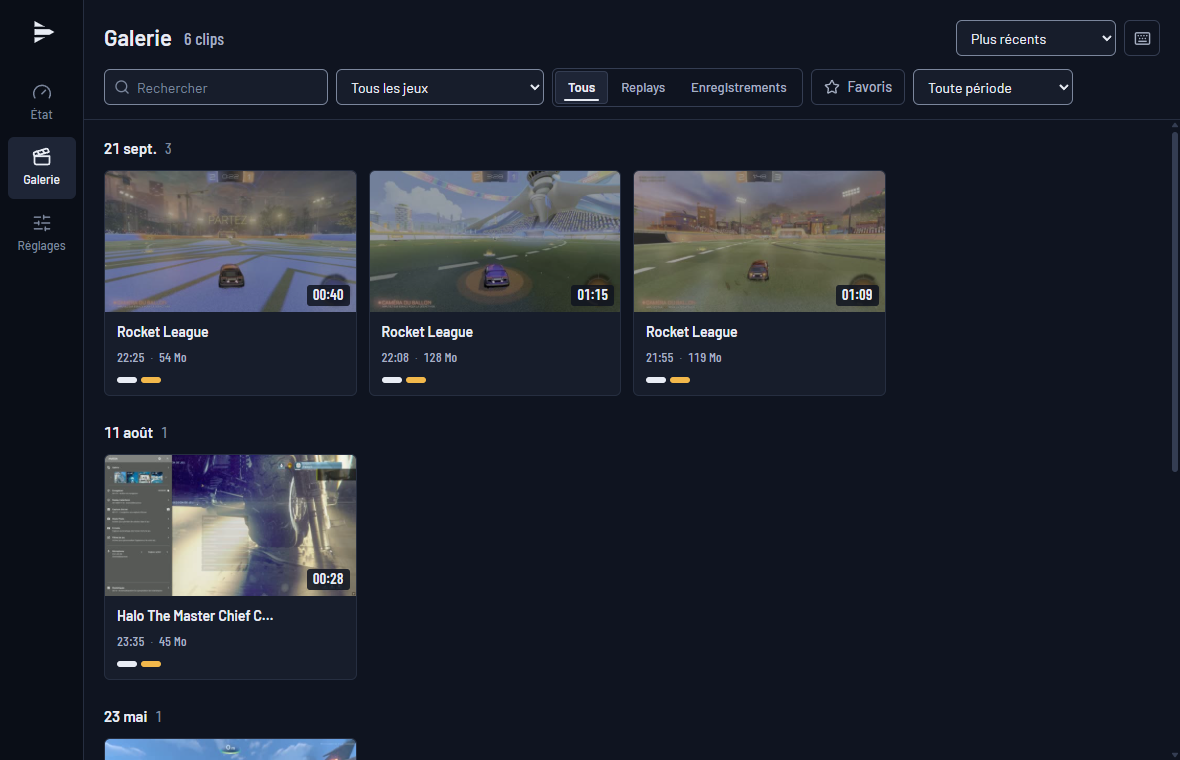
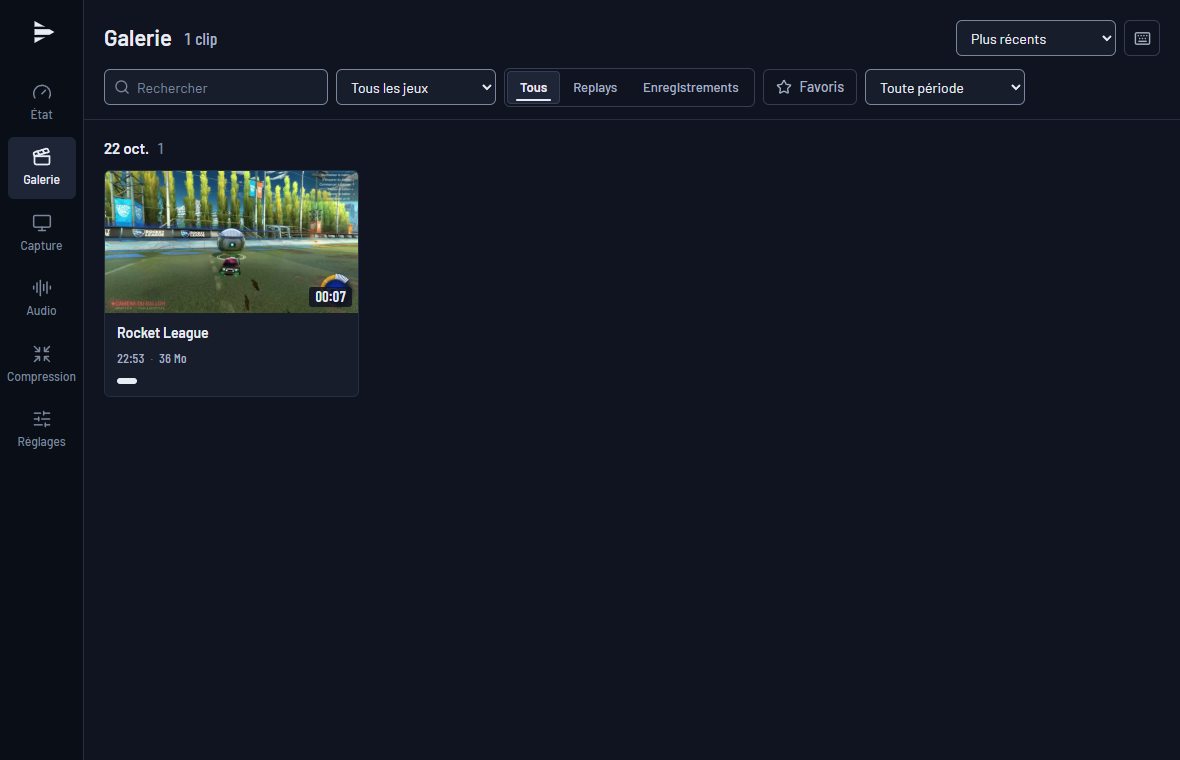
chore(repo): prepare release v1.2.0
Version 1.2.0, changelog, user notes, roadmap, README screenshots with the new sidebar and the compress page, and the session notes.

diff --git a/docs/HANDOFF.md b/docs/HANDOFF.md
@@ -30,7 +30,13 @@
   Foundation), #101 (version), #102 (`dev` → `main`), tag `v1.1.1`. Vérifié sans connexion après
   1 min : `latest.json` 1.1.1, installeur, `.sig`, CHANGELOG et page en 200. Reste : test VM T11.
   Branche : `dev` (PR de handoff `docs/handoff-v1.1`).
-- **Dernière mise à jour :** 2026-10-22
+- **v1.2.0 en préparation (2026-10-23/24)** : recherche et décisions de Palawi (#105,
+  `docs/reports/v1.2-research.md`), pages Capture et Audio + alerte de sortie (#106, ADR-036),
+  enregistrer après la sauvegarde (#107, ADR-037), compression à une taille cible (#108,
+  ADR-038), retours de la session T14 (#109 : Compression avant Réglages, tailles en unités
+  binaires, copie sans réencodage, « Choisir des clips »). Session T14 de Palawi validée le
+  2026-10-24. Branche : `release/v1.2.0` (version, CHANGELOG, notes, feuille de route).
+- **Dernière mise à jour :** 2026-10-24
 
 ## Ce qui existe
 
@@ -226,15 +232,39 @@
   `probe-gpu-priority [--window]`, `gpu-load` (caché), `probe-fullscreen`, `--capture-priority`.
   Scripts : `app-crash.ps1`, `fps-impact.ps1 -CapturePriority`.
 
+- **v1.2 (2026-10-23/24)** :
+  - Front : barre État, Galerie, Capture, Audio, Compression, Réglages (`Rail.tsx`) ; garde de
+    sortie `lib/leaveGuard.ts` (vitest) + `components/LeaveDialog.tsx`, `useConfigDraft(page)`
+    déclare son brouillon ; `npm test` = test i18n + vitest. Page `components/compress/`
+    (`CompressPage`, `ClipPicker`), store `lib/compressDrafts.ts` (révision par brouillon contre
+    les réponses périmées) ; « Compresser » dans le menu de la galerie et la barre d'export du
+    lecteur ; « Clip en cours » + « Prolonger » / « Terminer maintenant » sur État ; ligne
+    « Après l'appui » dans Replay & qualité ; `format::bytes` en unités binaires.
+  - Moteur : `replay.after_secs`, `PostRollCut` (`replay`), `Pipeline::start_post_roll` réutilise
+    le `Recorder` (`RecordKind::Replay`) ; `EngineEvent::PostRoll`, `EngineHandle::finish_clip`,
+    alerte `clip_cut_short`. `library::compress` (sonde, plan, graphe de filtres, essais, copie
+    sans réencodage), `AacEncoder::open_with_bitrate`, erreurs `not_a_video`,
+    `target_too_small`, `over_target`, `compress_cancelled`.
+  - Shell : `compress.rs` (file d'attente sur un fil, `compress_*`), `replay_finish_clip`,
+    `AppStatus.clip_ends_at_ms`, entrée « Terminer le clip maintenant » dans la zone de
+    notification, permission `core:window:allow-destroy`.
+  - CLI : `replay --after N` (touche `f`), `compress`. Scripts : `post-roll.ps1`,
+    `post-roll-memory.ps1`, `compress-check.ps1`, `clip-continuity.py`. Preuves :
+    `docs/reports/v1.2/`.
+
 ## Prochaines actions (dans l'ordre)
 
-0. **Clore la v1.1** : quand Palawi rapporte le test VM T11 (`docs/TESTING.md`, installeur de
+0. **Publier la v1.2.0** (accord de Palawi à chaque étape) : PR `release/v1.2.0` → `dev`,
+   captures du README refaites (`readme-screenshots.ps1`, nouvelle barre ; écran principal,
+   demander), PR `dev` → `main`, tag `v1.2.0` (brouillon), relecture du brouillon, publication,
+   vérification sans connexion de `latest.json`.
+1. **Clore la v1.1** : quand Palawi rapporte le test VM T11 (`docs/TESTING.md`, installeur de
    la release 1.1.1 dans `target\vm\PalaClips_1.1.1_x64-setup.exe` ; s'il a testé la 1.1.0,
    noter laquelle) : remplir la ligne
    VM de `docs/reports/cpu-encoder.md`, cocher les cases restantes de PLAN v1.1. Un défaut trouvé
    → branche `fix/…` depuis `dev`, puis 1.1.1 avec son accord (même chemin de release).
 
-1. **Prochaine version** (seulement avec l'accord explicite de Palawi). Pistes : `ROADMAP.md`.
+2. **Prochaine version** (seulement avec l'accord explicite de Palawi). Pistes : `ROADMAP.md`.
    1. Notes : `pwsh scripts/release-notes.ps1 -Tag dev` liste les PR visibles par l'utilisateur
       depuis le dernier tag (`feat`/`fix`/`perf`, sans scripts, tests, outils, docs, maintenance).
       En tirer `docs/release-notes/X.Y.Z.md` : `## Français` puis `## English`, quelques puces
@@ -273,6 +303,17 @@ Aucun. (PERF-02 levé le 2026-10-16 : RAM mesurée en working set privé, ADR-02
 Aucune. (2026-10-22 : encodeur CPU → D, `h264_mf` pour H.264 + SVT-AV1 pour AV1, ADR-035.)
 
 ## Points d'attention
+
+- Glisser-déposer : il ne marche pas dans l'app de test placée par `PALACLIPS_TEST_WINDOW`
+  (fenêtre créée cachée puis montrée sans focus, `show_without_focus`) ; il marche dans une
+  fenêtre ouverte normalement (vérifié par Palawi le 2026-10-24). Pour un essai de dépôt, lancer
+  l'exe avec `PALACLIPS_CONFIG_DIR` mais sans `PALACLIPS_TEST_WINDOW`.
+- npm 10.9.4 plante en ajoutant vitest (`edgesOut`) : ajouter une dépendance avec
+  `npx -y npm@11.6.2 install` ; `npm ci` (npm 10, CI) lit le verrou sans souci.
+- MP4 hybride : le premier échantillon de chaque piste est ramené à 0 (première image ~13 ms de
+  plus) ; `clip-continuity.py` ignore ce premier pas (RESEARCH § Enregistrer après la sauvegarde).
+- Compression : ~0,8× le temps réel pour du 1440p60 (décodage H.264 sur le processeur) ; un
+  replay sauvegardé pendant une compression reste continu.
 
 - Encodage CPU (v1.1) : la mémoire de `h264_mf` dépend de son nombre de fils (16 par défaut →
   ~720 Mo en 1080p). Limité à 2/4 fils par `encode::mf::limit_mf_workers` (ICodecAPI lu dans
@@ -413,9 +454,12 @@ Aucune. (2026-10-22 : encodeur CPU → D, `h264_mf` pour H.264 + SVT-AV1 pour AV
 | 2026-10-17 | 5 | PR #21 réglages persistants ; PR #22 noms de jeux (Fortnite sans métadonnées → nom d'exe nettoyé, décision de Palawi, ADR-024) ; PR #23 carillon + toast, test Fortnite ✅ (carillon en jeu, toast bloqué en jeu puis dans le centre de notifications, toast + carillon au bureau, dossier « Fortnite ») ; PR #24 clips sans doublon (RPL-09, ADR-025, 20,2 s puis 10,2 s) | Raccourcis, démarrage avec Windows, écrans Réglages |
 | 2026-10-17 | 5 | PR #25 clip < 3 s ignoré ; PR #26 démarrage avec Windows (0 WebView2) ; raccourcis personnalisables (conflit réel détecté : Alt+Shift+F10 pris par NVIDIA → défaut Ctrl+Alt+F10) ; écran Réglages (Raccourcis, Général, thème) testé par Palawi au clavier ; revue impeccable 2 tours | Sections Réglages restantes |
 | 2026-10-17 | 5 | Socle i18n avant la phase 6 (ADR-028) : fr/en complets, langue de Windows par défaut, codes + paramètres côté Rust, menu de la zone de notification et toasts traduits, test anti-chaînes en dur | Revue de Palawi (anglais + sélecteurs), phase 6 |
+| 2026-10-18 | 6 | Noms de pistes par défaut hors du fichier de réglages (#39) ; enregistrement manuel sur la capture du replay en MP4 hybride (#40), récupération au démarrage et arrêt propre disque plein (#41) ; bibliothèque SQLite, surveillance du dossier, quota (#42) ; protocole `palaclips://` par plages et pistes extraites (#43) ; découpe rapide ou précise, export pistes choisies ou mixées (#44) ; galerie et lecteur multipiste (#45) | Mesures de la phase 6 |
+| 2026-10-19 | 6→7 | Mesures de la phase 6 et fuite du lecteur corrigée (#46) ; micro dans la piste 1 (#47, ADR-029), Mix complet = somme des pistes (#48, ADR-030), pistes en retard attendues (#50) ; phase 6 validée (#49) ; alerte de cadence DWM (#51), reprise après panne du pipeline (#52, ADR-031), GOP fixe des vidéos de test (#53), secondes sans image ignorées (#54) ; panneau de performances (#55) ; WebView et données isolées (#56, #58), données sous l'identifiant de l'app (#57, ADR-032), FFmpeg et licences dans l'installeur (#59), preuves de non-migration et désinstallation (#60–#62) ; séance T7 (#63) | Défauts de la séance T7 |
+| 2026-10-20 | 7 | Défaut 1 : famine GPU reproduite seulement avec une charge au premier plan, seule la classe REALTIME aide (sans admin avec HAGS), file bornée (11 s → 57 ms), alerte GPU saturé (#64) ; défaut 3 : `alert_cleared` (#64) ; défaut 2 : alerte plein écran exclusif, Kombustor (#65) ; PERF-03 : 7,5 % en temps réel contre 0,7 % en normal → réglage, « jeu » par défaut (#66, ADR-033) ; T7 appli qui crashe (script), résolution, HDR basculé (#67) ; phase 7 validée | Minecraft quand Palawi le dit, phase 8 |
 | 2026-10-20/21 | 8 | Journaux + diagnostic anonymisé (#71) ; premier lancement en 6 étapes, 27,5 s jusqu'au clip (#72) ; relecture de l'anglais (#73) ; README EN/FR + captures (#74) ; bug Vesktop trouvé par Palawi : applis en plusieurs instances additionnées (#76) ; Windows 11 requis (#77) ; `NotImplemented` supprimé (#78) ; updater + workflow de release, essai 1.0.0 → 1.0.1 et fausse signature automatisés (#75) ; écran par chemin stable (#79) ; REC-02 et `dumpbin` prouvés ; session Windows propre abandonnée ; revue finale | T10 (VM), Minecraft, release avec l'accord de Palawi |
 | 2026-10-21 | 8 | Release v1.0.0 : notes de release automatiques (PR par type), README EN/FR à la structure classique et SEO (description, 20 topics, page d'accueil du dépôt), version 1.0.0 (#87), `dev` → `main` (#88), tag, installeur signé + `latest.json` vérifiés, release publiée ; URL de l'updater corrigée à la main puis automatisée | Suivre les issues ; prochaine version avec l'accord de Palawi |
 | 2026-10-21 | 8 | Logo « Pistes » choisi par Palawi parmi 3 propositions (#83) ; feuille de route (#84) ; premier lancement en 8 questions, une à la fois, cartes « Conseillé », récapitulatif modifiable, vérifications seulement en cas de problème (#85), vu deux fois par Palawi ; RAM gardée par défaut jusqu'à 2 min (décision de Palawi, RPL-04 inchangé) ; captures FR/EN refaites | Release avec l'accord de Palawi |
 | 2026-10-22 | v1.1 | Encodage par le processeur : recherche (encodeurs du FFmpeg BtbN, licences, lecture, banc VMAF NEG), choix D de Palawi ; moteur (`h264_mf` + SVT-AV1, Video Processor → NV12 → staging ou swscale, fils en priorité basse, file bornée, découpe précise CPU) ; app (réglage Encodeur, premier lancement, panneau), critique/audit impeccable ; validé : clip CPU, A/V 3,7 ms d'écart avec NVENC, Fortnite 0 % (1 % bas −3 à −5 %), mise à jour 1.0.0 → 1.1.0 ; mémoire de `h264_mf` (~720 Mo en 1080p) gardée par Palawi ; release v1.1.0 publiée (accord de Palawi), vérifiée sans connexion, sa 1.0.0 propose la 1.1.0 | Test VM T11 par Palawi |
 | 2026-10-22 | v1.1.1 | Mémoire de `h264_mf` : nombre de fils (16 images en vol), pas une file ; faible latence et B-frames sans effet ; limité à 2/4 fils par ICodecAPI (+244 Mo au lieu de +773 en 1080p30, moins de CPU, même VMAF) ; bascule AV1 sans Media Foundation (N/KN), FAQ ; v1.1.1 publiée sans le test VM (demande de Palawi) | Test VM T11 |
-| 2026-10-20 | 7 | Défaut 1 : famine GPU reproduite seulement avec une charge au premier plan, seule la classe REALTIME aide (sans admin avec HAGS), file bornée (11 s → 57 ms), alerte GPU saturé (#64) ; défaut 3 : `alert_cleared` (#64) ; défaut 2 : alerte plein écran exclusif, Kombustor (#65) ; PERF-03 : 7,5 % en temps réel contre 0,7 % en normal → réglage, « jeu » par défaut (#66, ADR-033) ; T7 appli qui crashe (script), résolution, HDR basculé (#67) ; phase 7 validée | Minecraft quand Palawi le dit, phase 8 |
+| 2026-10-23/24 | v1.2 | Recherche (Discord 20 Mo, codecs, NVENC un passage, glisser-déposer Tauri) et décisions de Palawi (#105) ; pages Capture et Audio + alerte de sortie, vitest (#106) ; enregistrer après la sauvegarde, jonction continue, synchro identique, mémoire sans croissance sur 10 min (#107) ; compression à une taille cible, 11 cas sous la cible, HDR → SDR (#108) ; session T14 de Palawi en jeu validée, retours appliqués (#109) ; release 1.2.0 préparée | Captures du README, release avec l'accord de Palawi |

diff --git a/ROADMAP.fr.md b/ROADMAP.fr.md
@@ -39,33 +39,7 @@ pourrait marcher :
 - Les marqueurs affichés sur la barre du lecteur, pour y aller directement.
 - Export vers DaVinci Resolve en EDL de marqueurs, pour les retrouver sur la timeline de montage.
 
-## 4. Compression à une taille cible
-
-- Une page dédiée dans la barre latérale, et un bouton depuis la galerie et le lecteur.
-- Taille en Mo, avec des préréglages (20 Mo pour Discord, 500 Mo pour Nitro) ou une valeur libre.
-- Débit calculé d'après la taille et la durée ; son mixé en une seule piste.
-- Si la cible est trop basse pour une qualité correcte, la résolution et les images par seconde
-  baissent automatiquement.
-- La taille finale est vérifiée, et la vidéo est réencodée si elle dépasse la cible.
-- Accepte aussi une vidéo glissée depuis l'explorateur de fichiers.
-
-## 5. Capture et Audio dans la barre latérale
-
-- Capture et Audio deviennent des pages à part entière : État, Galerie, Capture, Audio, Réglages.
-- Un avertissement quand on quitte une page avec un changement pas encore appliqué.
-- Sur l'écran État, la source et les pistes audio ouvrent ces pages au clic.
-
-## 6. Enregistrer aussi après la sauvegarde
-
-- Un réglage « après le clic » (0 s par défaut, jusqu'à 60 s) en plus de la durée « avant ».
-  Exemple : 1 min avant + 10 s après. Le clip s'écrit une fois le temps « après » écoulé.
-- Confirmation au moment de l'appui (carillon et notification « clip en cours, encore 10 s »),
-  puis à l'écriture du clip.
-- Un nouvel appui pendant le temps « après » prolonge le même clip au lieu d'en créer un second.
-- Pas de doublon entre deux clips : le clip suivant commence là où celui-ci s'arrête.
-- Réglage dans Réglages → Replay & qualité ; l'estimation de la RAM ne change pas.
-
-## 7. Autres pistes, à décider
+## 4. Autres pistes, à décider
 
 - Signer l'installeur (Authenticode) pour que Windows SmartScreen n'avertisse plus.
 - D'autres langues que le français et l'anglais.
@@ -74,6 +48,11 @@ pourrait marcher :
 
 ## Fait
 
+- **Version 1.2.0** : Capture et Audio sont des pages à part entière dans la barre latérale, avec
+  un avertissement quand on quitte une page avec un changement pas encore appliqué ; le clip peut
+  continuer jusqu'à 10 min après le raccourci (un nouvel appui le prolonge) ; les vidéos se
+  compressent à une taille cible (20 Mo Discord, 50 / 500 Mo Nitro ou une taille libre) depuis la
+  page Compression, la galerie, le lecteur ou par glisser-déposer depuis l'Explorateur.
 - **Encodage par le processeur (1.1.0)** : sans encodeur matériel qui marche, PalaClips encode
   sur le processeur, en H.264 par l'encodeur intégré à Windows ou en AV1 par SVT-AV1, avec un
   avertissement sur la charge en jeu. Le choix se fait dans Réglages → Replay & qualité →

diff --git a/ROADMAP.md b/ROADMAP.md
@@ -35,32 +35,7 @@ PalaClips needs Windows 11 today. Windows 10 version 2004 (build 19041) and late
 - Markers shown on the player's timeline, to jump straight to them.
 - Export to DaVinci Resolve as a marker EDL, so they land on the editing timeline.
 
-## 4. Compress to a target size
-
-- A dedicated page in the sidebar, plus a button from the gallery and the player.
-- Size in MB, with presets (20 MB for Discord, 500 MB for Nitro) or a free value.
-- Bitrate computed from the size and the length; sound mixed into a single track.
-- If the target is too low for good quality, resolution and frame rate go down automatically.
-- The final size is checked, and the video is encoded again if it is over the target.
-- Also accepts a video dragged in from File Explorer.
-
-## 5. Capture and Audio in the sidebar
-
-- Capture and Audio become pages of their own: Status, Gallery, Capture, Audio, Settings.
-- A warning when leaving a page with a change that is not applied yet.
-- On the Status screen, the source and the audio tracks open these pages when clicked.
-
-## 6. Keep recording after the save
-
-- An "after the press" setting (0 s by default, up to 60 s) next to the "before" length.
-  Example: 1 min before + 10 s after. The clip is written once the "after" time is over.
-- Confirmation when the hotkey is pressed (chime and notification "clip in progress, 10 s
-  left"), then again when the clip is written.
-- Pressing again during the "after" time extends the same clip instead of making a second one.
-- No overlap between clips: the next clip starts where this one ends.
-- Set in Settings → Replay & quality; the RAM estimate does not change.
-
-## 7. Other leads, to be decided
+## 4. Other leads, to be decided
 
 - Signing the installer (Authenticode) so Windows SmartScreen no longer warns.
 - More interface languages than French and English.
@@ -68,6 +43,11 @@ PalaClips needs Windows 11 today. Windows 10 version 2004 (build 19041) and late
 
 ## Done
 
+- **Version 1.2.0**: Capture and Audio are pages of their own in the sidebar, with a warning
+  when leaving a page with a change not applied yet; the clip can keep recording up to 10 min
+  after the hotkey (another press extends it); videos are compressed to a target size (20 MB
+  Discord, 50 / 500 MB Nitro or any size) from the Compress page, the gallery, the player or by
+  dragging files from File Explorer.
 - **Encoding on the processor (1.1.0)**: when no hardware encoder works, PalaClips encodes on
   the processor, in H.264 with the encoder built into Windows or in AV1 with SVT-AV1, with a
   warning about the load in game. Choose it in Settings → Replay & quality → Encoder.

diff --git a/CHANGELOG.md b/CHANGELOG.md
@@ -5,6 +5,31 @@ Format : [Keep a Changelog](https://keepachangelog.com/fr/1.1.0/), versions
 
 ## [Non publié]
 
+## [1.2.0] - 2026-10-24
+
+### Ajouté
+- Enregistrer après la sauvegarde (RPL-10, ADR-037) : réglage « Après l'appui » (0 s par défaut,
+  jusqu'à 10 min) dans Réglages → Replay & qualité. Le tampon est écrit tout de suite dans un MP4
+  hybride, puis le direct y est ajouté jusqu'à la fin ; un nouvel appui prolonge le même clip ;
+  « Terminer maintenant » sur État et dans la zone de notification ; carillon et notification
+  « Clip en cours » à l'appui. Clip récupéré au démarrage après un arrêt brutal.
+- Compression à une taille cible (CMP-01 à 05, ADR-038) : page Compression (20 Mo Discord,
+  50 Mo Nitro Basic, 500 Mo Nitro ou taille libre ; H.264 ou AV1 ; piste 1 seule ou toutes les
+  pistes), résolution et images par seconde choisies selon la taille, taille vérifiée et
+  nouvel essai si besoin, jamais au-dessus de la cible ; HDR converti en SDR ; original déjà
+  sous la cible copié sans réencodage. Depuis la galerie (un ou plusieurs clips), le lecteur
+  (découpe comprise) ou par glisser-déposer depuis l'Explorateur ; file d'attente qui continue
+  fenêtre fermée ; Copier, Ouvrir le dossier, Réessayer.
+- CLI : `replay --after`, `compress` ; bancs `post-roll.ps1`, `post-roll-memory.ps1`,
+  `compress-check.ps1`, `clip-continuity.py`.
+
+### Changé
+- Barre latérale : État, Galerie, Capture, Audio, Compression, Réglages ; Capture et Audio
+  sortent de Réglages (APP-14, ADR-036). Quitter une page, une section de Réglages ou fermer la
+  fenêtre avec un changement non appliqué demande « Appliquer et redémarrer », « Ne pas
+  appliquer » ou « Rester ». Liens directs depuis État et les alertes.
+- Tailles affichées en unités binaires, comme l'Explorateur et Discord.
+
 ## [1.1.1] - 2026-10-22
 
 ### Corrigé

diff --git a/docs/release-notes/1.2.0.md b/docs/release-notes/1.2.0.md
@@ -1,0 +1,19 @@
+## Français
+
+Trois nouveautés.
+
+- **Après l'appui** : le clip peut continuer jusqu'à 10 min après le raccourci (Réglages → Replay & qualité). Un nouvel appui le prolonge, « Terminer maintenant » l'arrête.
+- **Compression** : une nouvelle page compresse tes clips pour Discord (20 Mo), Nitro (50 ou 500 Mo) ou une taille libre, sans jamais dépasser. Depuis la galerie, le lecteur ou en glissant des vidéos depuis l'Explorateur.
+- **Capture et Audio** ont leur propre page dans la barre latérale, et l'app prévient si tu quittes une page sans appliquer un changement.
+
+Journal complet : https://github.com/Palawizard/PalaClips/blob/v1.2.0/CHANGELOG.md
+
+## English
+
+Three new features.
+
+- **After the press**: the clip can keep going for up to 10 min after the hotkey (Settings → Replay & quality). Pressing again extends it, "Finish now" stops it.
+- **Compress**: a new page compresses your clips for Discord (20 MB), Nitro (50 or 500 MB) or any size, never over it. From the gallery, the player or by dragging videos from File Explorer.
+- **Capture and Audio** have their own page in the sidebar, and the app warns you if you leave a page without applying a change.
+
+Full changelog (in French): https://github.com/Palawizard/PalaClips/blob/v1.2.0/CHANGELOG.md

diff --git a/README.fr.md b/README.fr.md
@@ -75,9 +75,11 @@ fonctionne avec les anti-triches comme Easy Anti-Cheat.
 
 | Galerie | Sources audio |
 |---|---|
-| ![La galerie, clips classés par jour](docs/screenshots/fr/gallery.png) | ![Réglages audio : une piste par appli, avec vumètre](docs/screenshots/fr/audio-sources.png) |
+| ![La galerie, clips classés par jour](docs/screenshots/fr/gallery.png) | ![Page Audio : une piste par appli, avec vumètre](docs/screenshots/fr/audio-sources.png) |
 
-![Premier lancement, question de la durée du replay](docs/screenshots/fr/first-launch.png)
+| Compression | Premier lancement |
+|---|---|
+| ![La page Compression : taille cible, codec, file d'attente avec le plan de chaque clip](docs/screenshots/fr/compress.png) | ![Premier lancement, question de la durée du replay](docs/screenshots/fr/first-launch.png) |
 
 ## Configuration requise
 

diff --git a/README.md b/README.md
@@ -73,9 +73,11 @@ Anti-Cheat.
 
 | Gallery | Audio sources |
 |---|---|
-| ![The gallery, clips grouped by day](docs/screenshots/en/gallery.png) | ![Audio settings: one track per app, with a level meter](docs/screenshots/en/audio-sources.png) |
+| ![The gallery, clips grouped by day](docs/screenshots/en/gallery.png) | ![Audio page: one track per app, with a level meter](docs/screenshots/en/audio-sources.png) |
 
-![First launch, replay length question](docs/screenshots/en/first-launch.png)
+| Compress | First launch |
+|---|---|
+| ![The Compress page: target size, codec, queue with each clip's plan](docs/screenshots/en/compress.png) | ![First launch, replay length question](docs/screenshots/en/first-launch.png) |
 
 ## Requirements
 

diff --git a/docs/PLAN.md b/docs/PLAN.md
@@ -259,7 +259,7 @@ Recherche et décisions de Palawi : `docs/reports/v1.2-research.md`.
       anticipée), cas limites testés, app (réglage, État, zone de notification, notifications).
 - [x] Compression (`feature/compress`) : module moteur + `palaclips-cli compress`, page,
       boutons galerie/lecteur, glisser-déposer, copier.
-- [ ] Session de tests manuels de Palawi (≤ 15 min, en jouant).
+- [x] Session de tests manuels de Palawi (T14, 2026-10-24, en jouant) ; retours appliqués (#109).
 - [ ] Release v1.2.0 (brouillon, puis publication avec l'accord de Palawi).
 
 Critères :
